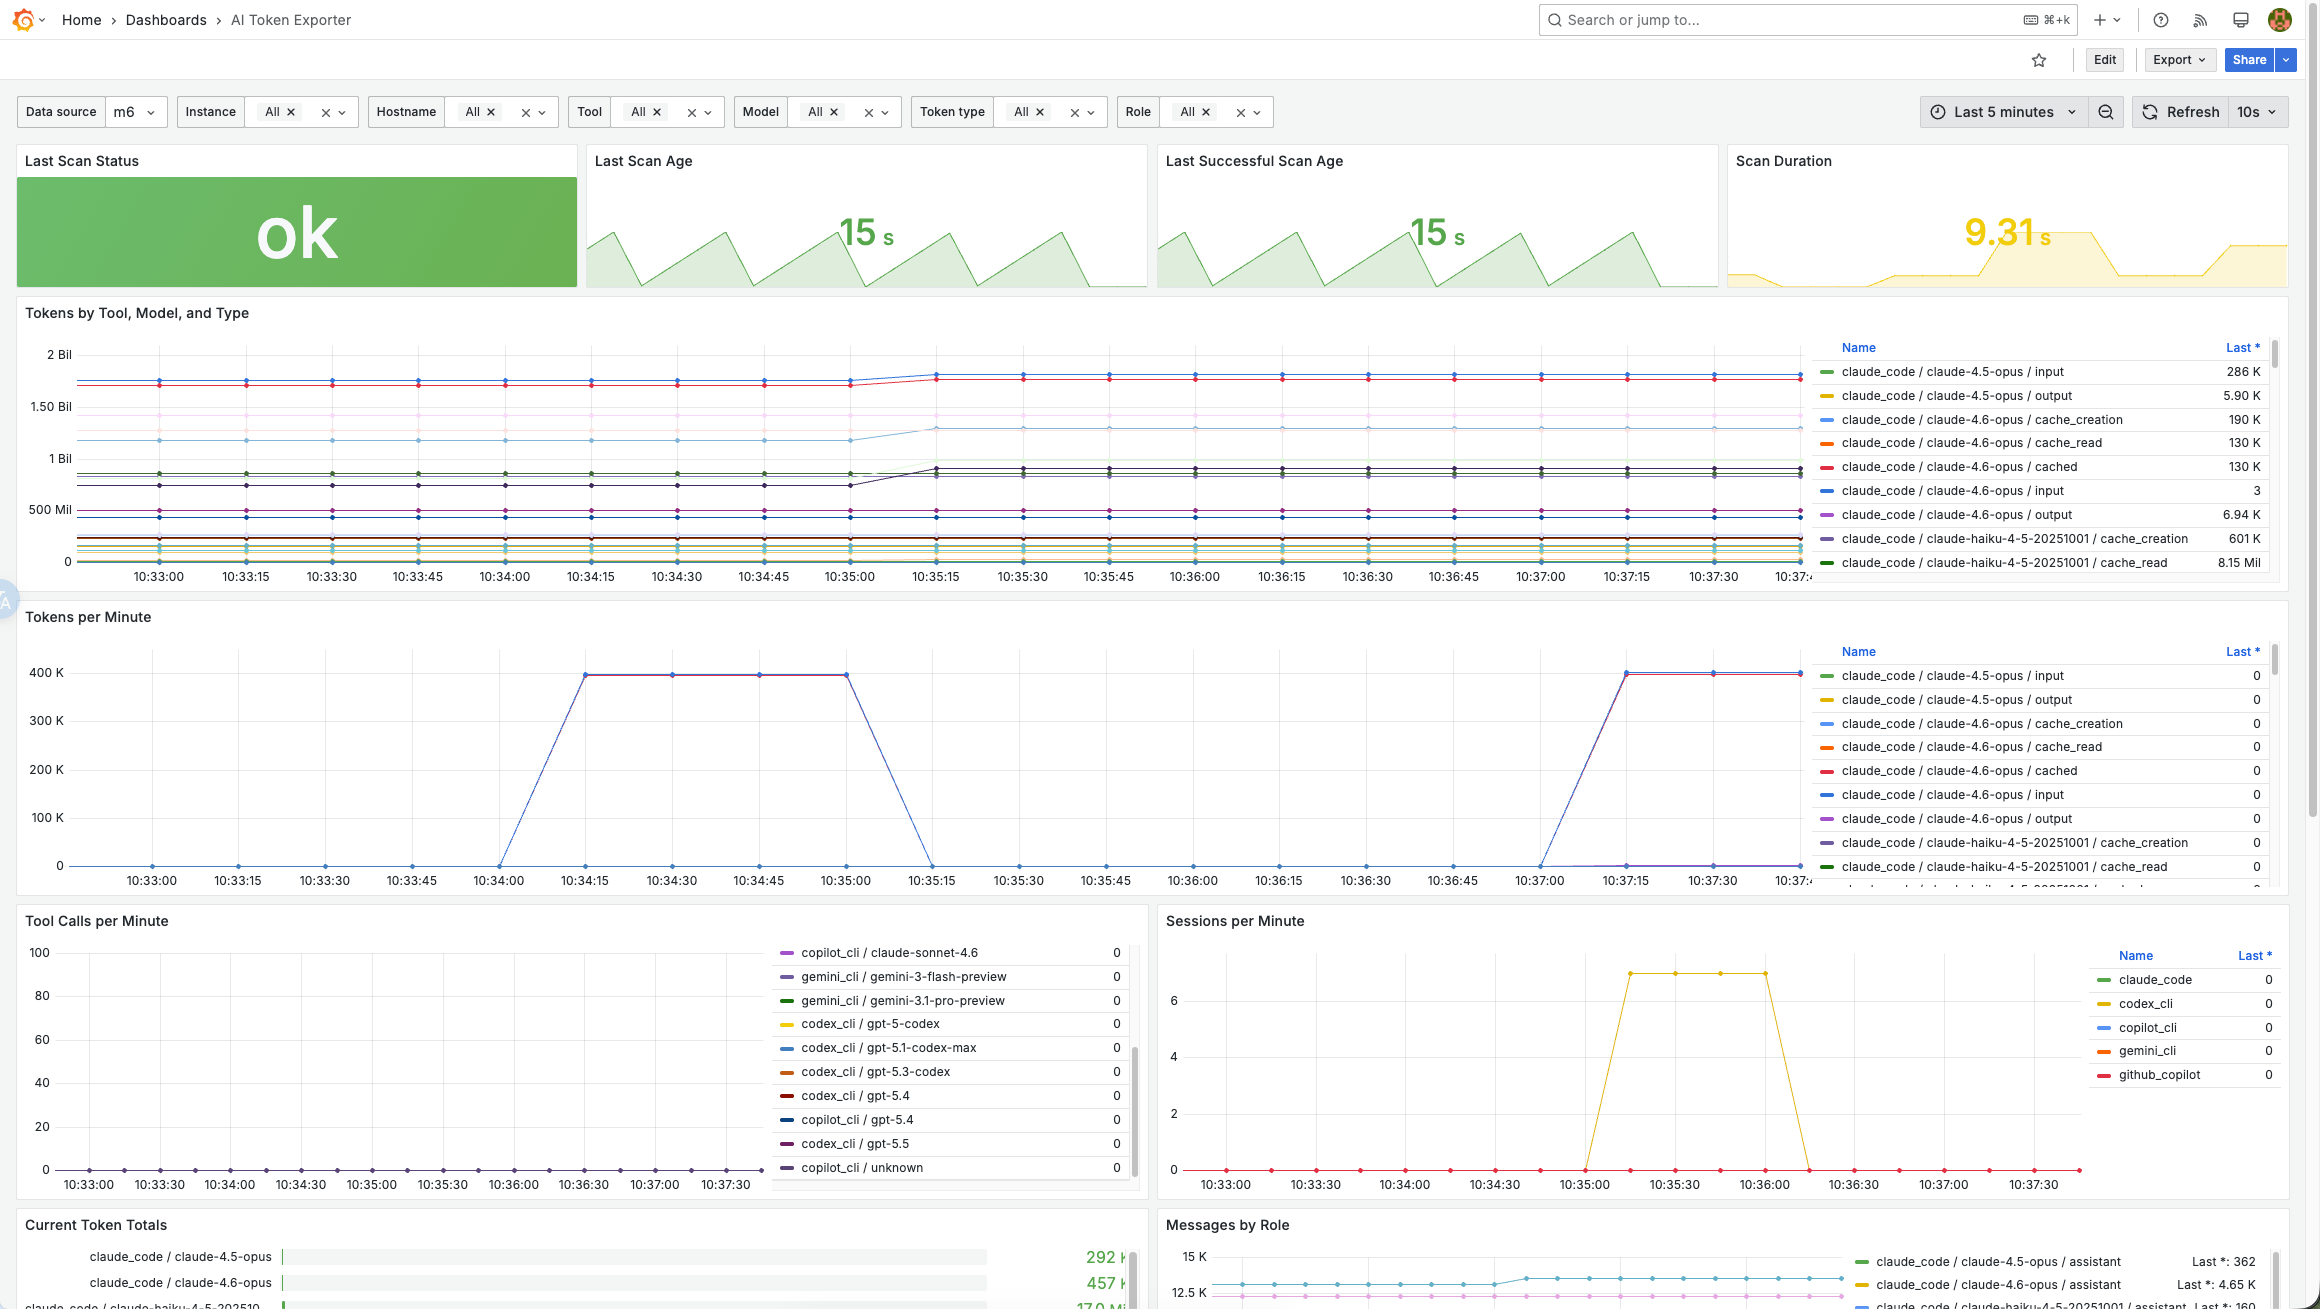
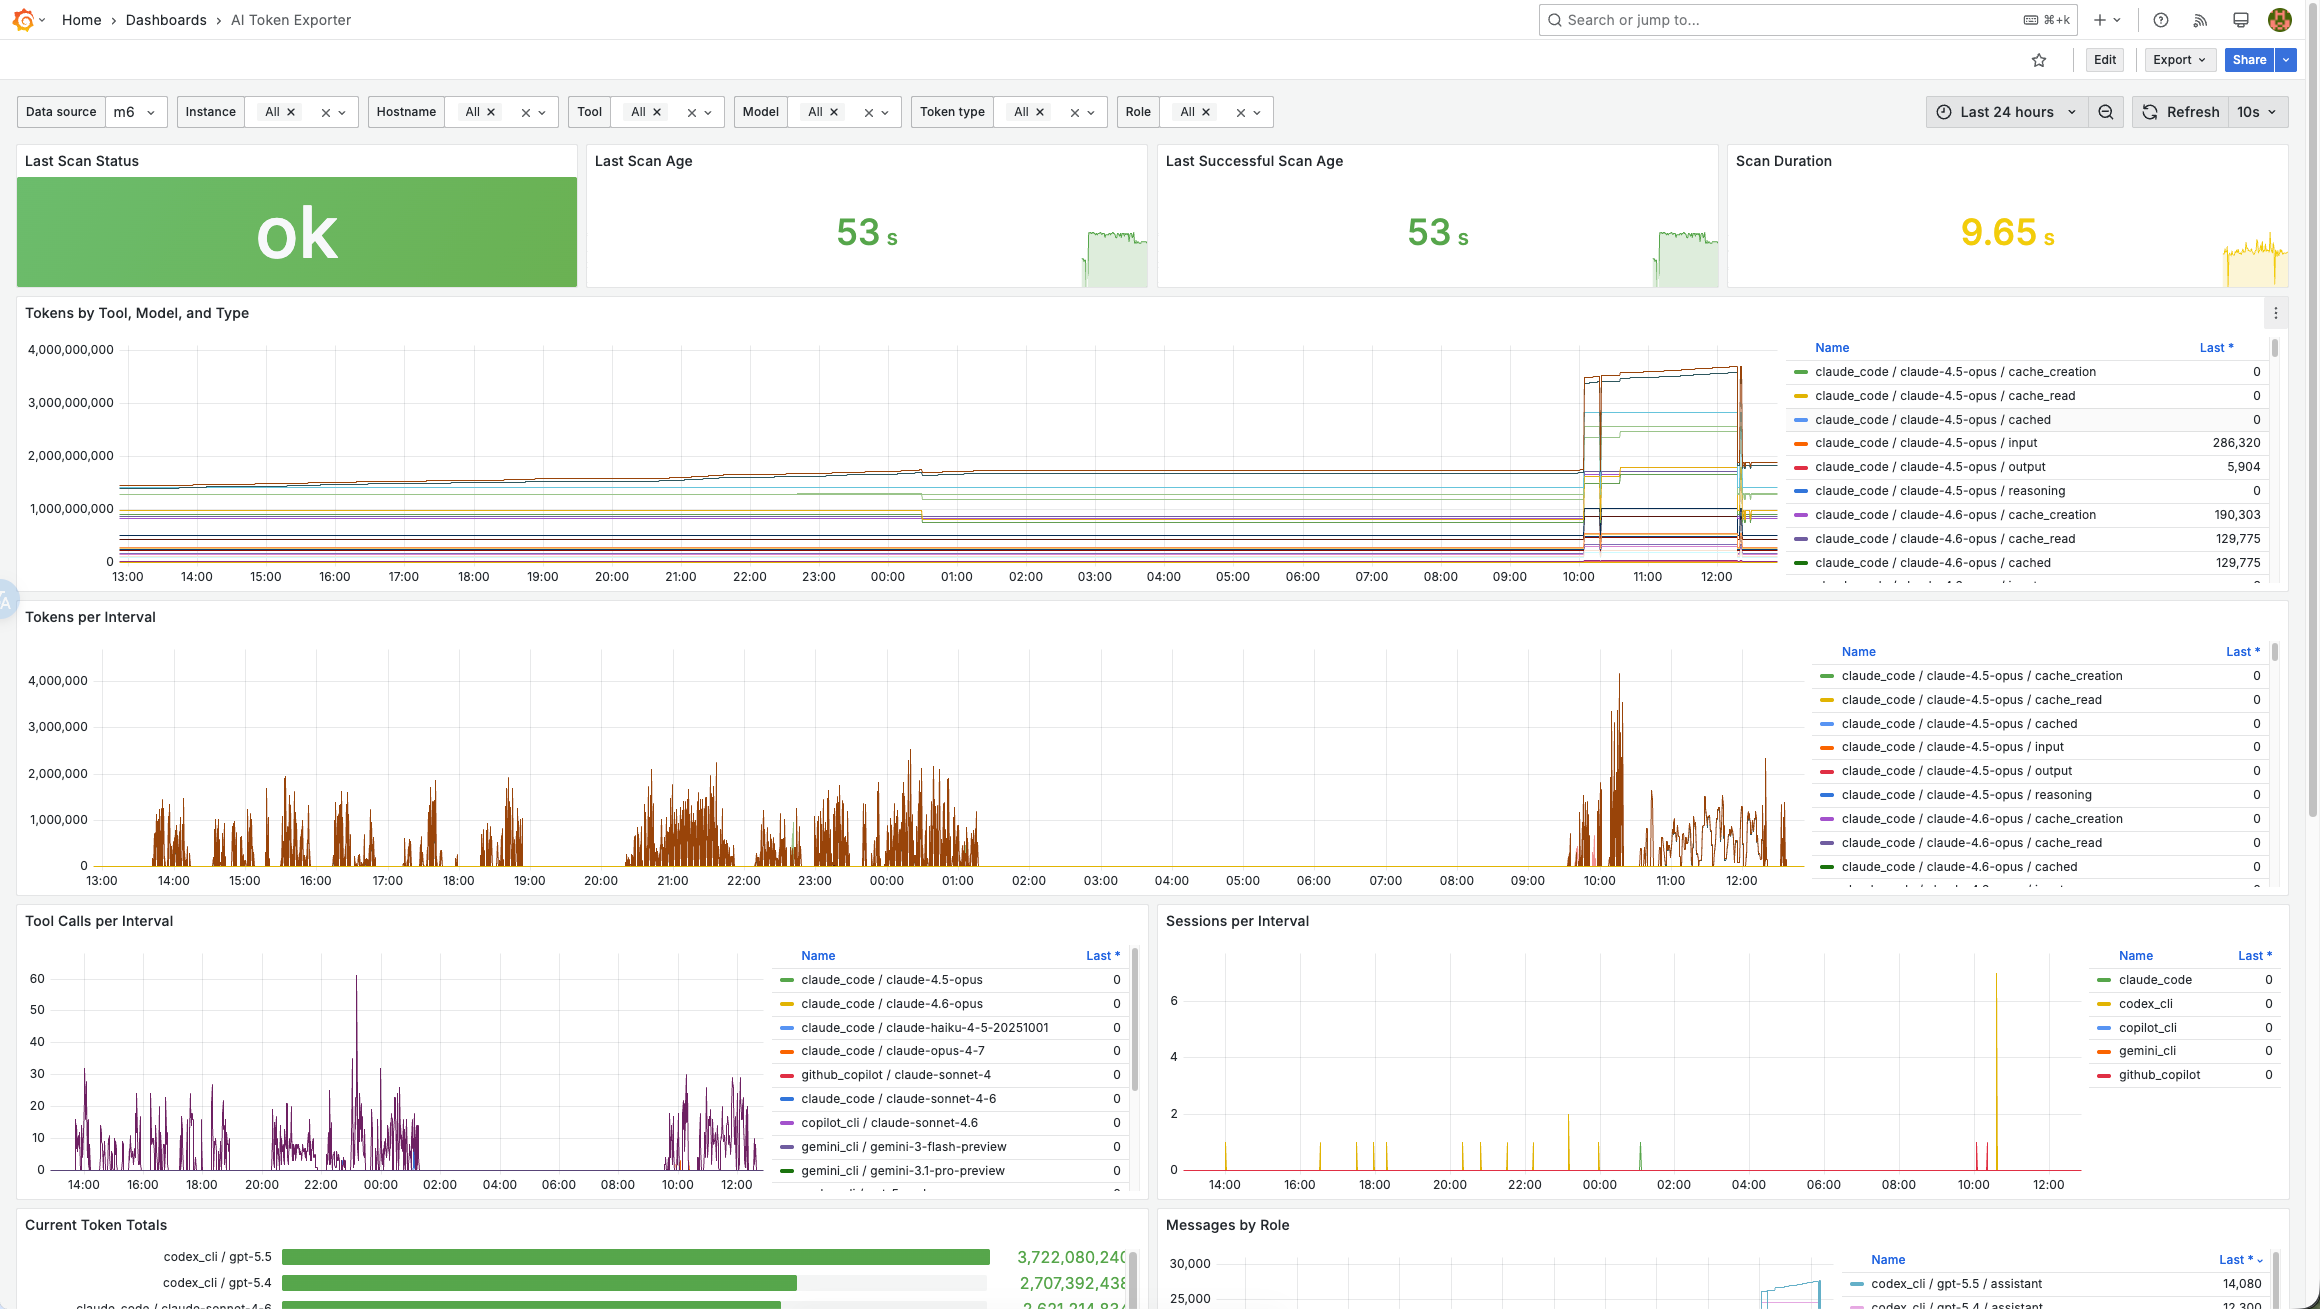
docs(readme): expand setup and dashboard docs
Document binary, Docker, Go install, source builds, Prometheus and VictoriaMetrics scrape setup, backfill imports, and refreshed Grafana screenshots.

diff --git a/README.md b/README.md
@@ -14,19 +14,18 @@ The exporter keeps an in-memory snapshot and serves it at `GET /metrics`. Scrape
 
 ## Install
 
-Build from source:
+### Binary Release
+
+Download a prebuilt archive from the GitHub release page. Replace `linux_amd64` with the target platform, such as `linux_arm64`, `darwin_arm64`, or `windows_amd64`.
 
 ```bash
-go install github.com/jimyag/ai-token-exporter/cmd/ai-token-exporter@latest
+curl -L https://github.com/jimyag/ai-token-exporter/releases/latest/download/ai-token-exporter_linux_amd64.tar.gz \
+  -o ai-token-exporter_linux_amd64.tar.gz
+tar -xzf ai-token-exporter_linux_amd64.tar.gz
+install -m 0755 ai-token-exporter /usr/local/bin/ai-token-exporter
 ```
 
-Run from the repository:
-
-```bash
-go run ./cmd/ai-token-exporter
-```
-
-Docker:
+### Docker
 
 ```bash
 docker run --rm -p 9108:9108 \
@@ -38,6 +37,38 @@ docker run --rm -p 9108:9108 \
   ghcr.io/jimyag/ai-token-exporter:latest
 ```
 
+On Linux, mount `$HOME/.config` instead of the macOS application support directory:
+
+```bash
+docker run --rm -p 9108:9108 \
+  -v "$HOME/.claude:/home/nonroot/.claude:ro" \
+  -v "$HOME/.codex:/home/nonroot/.codex:ro" \
+  -v "$HOME/.gemini:/home/nonroot/.gemini:ro" \
+  -v "$HOME/.copilot:/home/nonroot/.copilot:ro" \
+  -v "$HOME/.config:/home/nonroot/.config:ro" \
+  ghcr.io/jimyag/ai-token-exporter:latest
+```
+
+### Go Install
+
+```bash
+go install github.com/jimyag/ai-token-exporter/cmd/ai-token-exporter@latest
+```
+
+### Source Build
+
+```bash
+git clone https://github.com/jimyag/ai-token-exporter.git
+cd ai-token-exporter
+go build -trimpath -buildvcs=true -o bin/ai-token-exporter ./cmd/ai-token-exporter
+```
+
+With Task:
+
+```bash
+task build
+```
+
 ## Usage
 
 ```bash
@@ -46,6 +77,8 @@ ai-token-exporter \
   --scan-interval=30s \
   --enabled=claude_code,codex_cli,copilot_cli,github_copilot,gemini_cli
 ```
+
+All flags are optional. The default listen address is `:9108`, the default scan interval is `30s`, and all supported analyzers are enabled by default.
 
 Check metrics:
 
@@ -65,16 +98,16 @@ ai-token-exporter --version
 
 Flags can be set with environment variables:
 
-| Flag | Environment variable | Default |
-| --- | --- | --- |
-| `--listen` | `AI_TOKEN_EXPORTER_LISTEN` | `:9108` |
-| `--scan-interval` | `AI_TOKEN_EXPORTER_SCAN_INTERVAL` | `30s` |
-| `--enabled` | `AI_TOKEN_EXPORTER_ENABLED` | `claude_code,codex_cli,copilot_cli,github_copilot,gemini_cli` |
-| `--claude-dir` | `AI_TOKEN_EXPORTER_CLAUDE_DIR` | `~/.claude/projects` |
-| `--codex-dir` | `AI_TOKEN_EXPORTER_CODEX_DIR` | `~/.codex` |
-| `--copilot-dir` | `AI_TOKEN_EXPORTER_COPILOT_DIR` | `~/.copilot` |
-| `--gemini-dir` | `AI_TOKEN_EXPORTER_GEMINI_DIR` | `~/.gemini/tmp` |
-| `--gemini-config-dir` | `AI_TOKEN_EXPORTER_GEMINI_CONFIG_DIR` | `~/.gemini` |
+| Flag                  | Environment variable                  | Default                                                                                                                  |
+| --------------------- | ------------------------------------- | ------------------------------------------------------------------------------------------------------------------------ |
+| `--listen`            | `AI_TOKEN_EXPORTER_LISTEN`            | `:9108`                                                                                                                  |
+| `--scan-interval`     | `AI_TOKEN_EXPORTER_SCAN_INTERVAL`     | `30s`                                                                                                                    |
+| `--enabled`           | `AI_TOKEN_EXPORTER_ENABLED`           | `claude_code,codex_cli,copilot_cli,github_copilot,gemini_cli`                                                            |
+| `--claude-dir`        | `AI_TOKEN_EXPORTER_CLAUDE_DIR`        | `~/.claude/projects`                                                                                                     |
+| `--codex-dir`         | `AI_TOKEN_EXPORTER_CODEX_DIR`         | `~/.codex`                                                                                                               |
+| `--copilot-dir`       | `AI_TOKEN_EXPORTER_COPILOT_DIR`       | `~/.copilot`                                                                                                             |
+| `--gemini-dir`        | `AI_TOKEN_EXPORTER_GEMINI_DIR`        | `~/.gemini/tmp`                                                                                                          |
+| `--gemini-config-dir` | `AI_TOKEN_EXPORTER_GEMINI_CONFIG_DIR` | `~/.gemini`                                                                                                              |
 | `--vscode-config-dir` | `AI_TOKEN_EXPORTER_VSCODE_CONFIG_DIR` | `os.UserConfigDir()`; for example `~/Library/Application Support` on macOS, `~/.config` on Linux, `%APPDATA%` on Windows |
 
 Default source locations:
@@ -114,9 +147,11 @@ Label values:
 
 Session and project identifiers are intentionally not exposed as labels. The exporter aggregates those locally into `tool` and `model` series to keep Prometheus cardinality low.
 
-## Prometheus
+## Prometheus / VictoriaMetrics Scrape
 
-Example scrape config:
+Prometheus and VictoriaMetrics can scrape the same `/metrics` endpoint. The exporter does not add `instance`, `job`, or host labels itself; those usually come from the scrape config.
+
+Single-node example:
 
 ```yaml
 scrape_configs:
@@ -125,6 +160,31 @@ scrape_configs:
       - targets: ["localhost:9108"]
         labels:
           hostname: "local-dev"
+```
+
+Multi-node example. Keep the labels used by live scrapes and historical backfills aligned. The dashboard filters by `hostname`; if you also use a custom label such as `nodename`, keep both labels on the scrape target:
+
+```yaml
+scrape_configs:
+  - job_name: ai-token-exporter
+    static_configs:
+      - targets: ["192.0.2.10:21112"]
+        labels:
+          hostname: "node-a"
+          nodename: "node-a"
+      - targets: ["192.0.2.11:21112"]
+        labels:
+          hostname: "node-b"
+          nodename: "node-b"
+```
+
+For VictoriaMetrics single-node deployments, pass the same YAML file to `-promscrape.config`:
+
+```bash
+victoria-metrics-prod \
+  -storageDataPath=/var/lib/victoria-metrics \
+  -retentionPeriod=12 \
+  -promscrape.config=/etc/victoria-metrics/promscrape.yml
 ```
 
 ## VictoriaMetrics Backfill
@@ -141,8 +201,8 @@ ai-token-exporter backfill \
   --to=2026-05-16T00:00:00+08:00 \
   --step=1m \
   --job=ai-token-exporter \
-  --instance=100.111.111.1:21112 \
-  --hostname=workstation-1
+  --instance=192.0.2.10:21112 \
+  --hostname=workstation-a
 ```
 
 Import into VictoriaMetrics. By default, this replaces existing `ai-token-exporter` data for the same `job`, `instance`, and `hostname` before importing:
@@ -151,8 +211,8 @@ Import into VictoriaMetrics. By default, this replaces existing `ai-token-export
 ai-token-exporter backfill \
   --vm-url=http://victoriametrics:8428/api/v1/import/prometheus \
   --job=ai-token-exporter \
-  --instance=100.111.111.1:21112 \
-  --hostname=workstation-1
+  --instance=192.0.2.10:21112 \
+  --hostname=workstation-a
 ```
 
 Append without deleting existing series:
@@ -162,19 +222,41 @@ ai-token-exporter backfill \
   --replace-existing=false \
   --vm-url=http://victoriametrics:8428/api/v1/import/prometheus \
   --job=ai-token-exporter \
-  --instance=100.111.111.1:21112 \
-  --hostname=workstation-1
+  --instance=192.0.2.10:21112 \
+  --hostname=workstation-a
 ```
 
 The default replacement path deletes only series matching `{__name__=~"ai_token_exporter_.*",job=...,instance=...,hostname=...}` after the import file is generated successfully and before it is posted to VictoriaMetrics. For VictoriaMetrics cluster deployments, pass `--delete-url` if the delete endpoint is not reachable at the URL inferred from `--vm-url`.
 
 Set `--instance` and `--hostname` to the same labels used by your scrape config so Grafana filters match live and backfilled data. The backfill imports usage series, message counts, tool calls, sessions, and build info; scan health/source-file metrics remain live-only.
 
+Example commands for a shared VictoriaMetrics endpoint. Run each command on the matching node so the exporter reads that node's local AI tool logs:
+
+```bash
+# node-a
+ai-token-exporter backfill \
+  --vm-url=https://vm.example.com/api/v1/import/prometheus \
+  --job=ai-token-exporter \
+  --instance=192.0.2.10:21112 \
+  --hostname=node-a
+
+# node-b
+ai-token-exporter backfill \
+  --vm-url=https://vm.example.com/api/v1/import/prometheus \
+  --job=ai-token-exporter \
+  --instance=192.0.2.11:21112 \
+  --hostname=node-b
+```
+
+The `--instance` value must match the scrape target label exactly. If live scrape uses `instance="192.0.2.10:21112"`, backfill should use the same value; otherwise Grafana will show historical and live data as different series.
+
 ## Grafana
 
 Import `dashboard/ai-token-exporter.json` into Grafana. The dashboard includes datasource, instance, hostname, tool, model, token type, and role filters.
 
 ![AI Token Exporter Grafana dashboard](docs/images/grafana-dashboard.png)
+
+![AI Token Exporter Grafana dashboard panels](docs/images/grafana-dashboard-panels.png)
 
 ## Release
 
